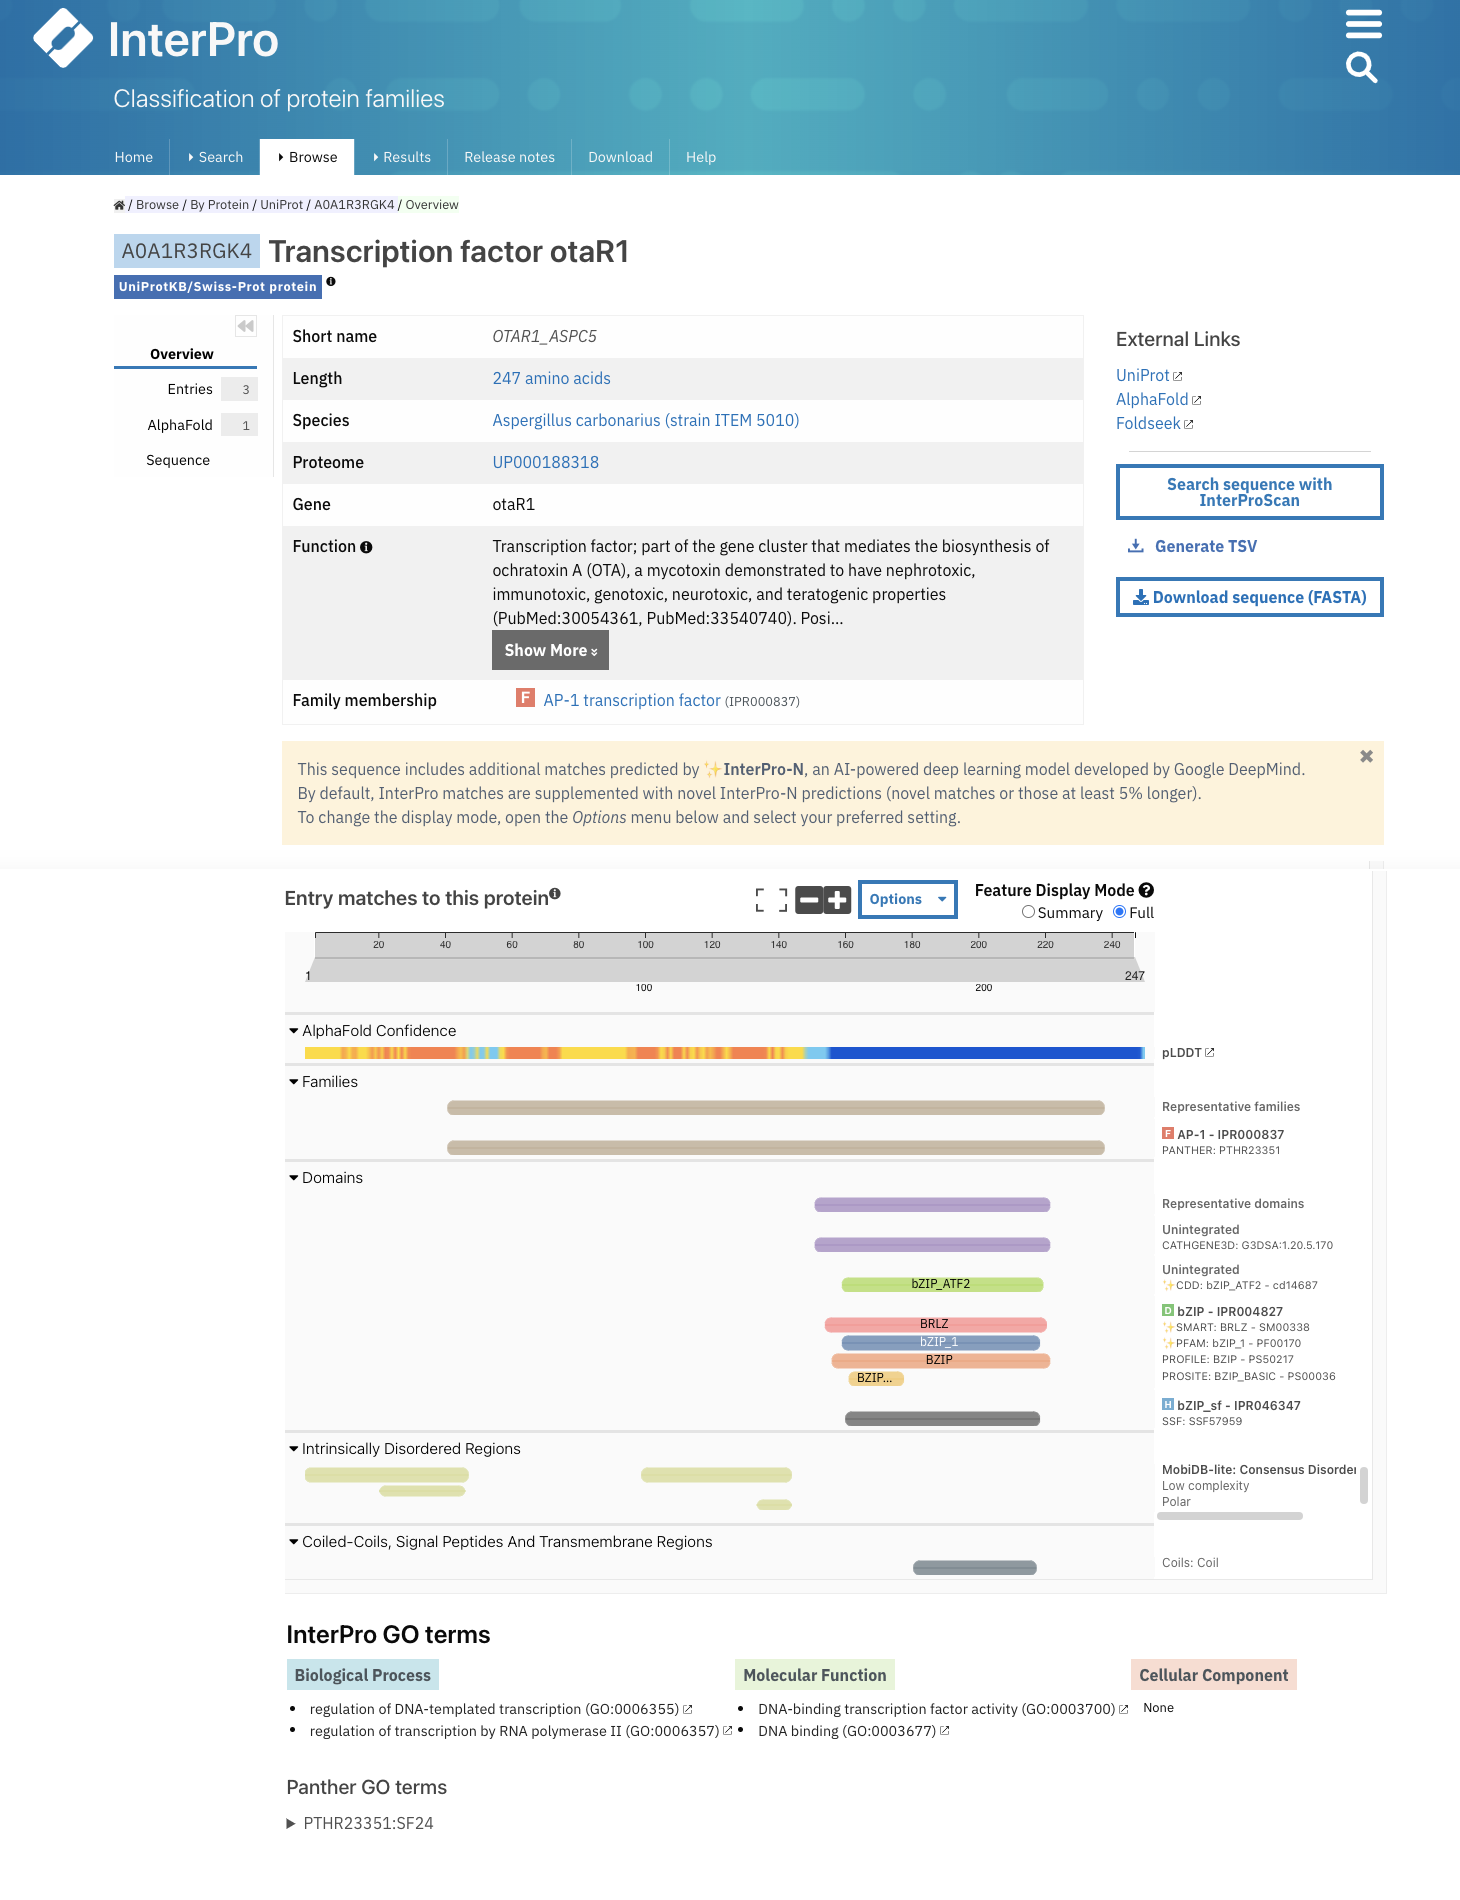
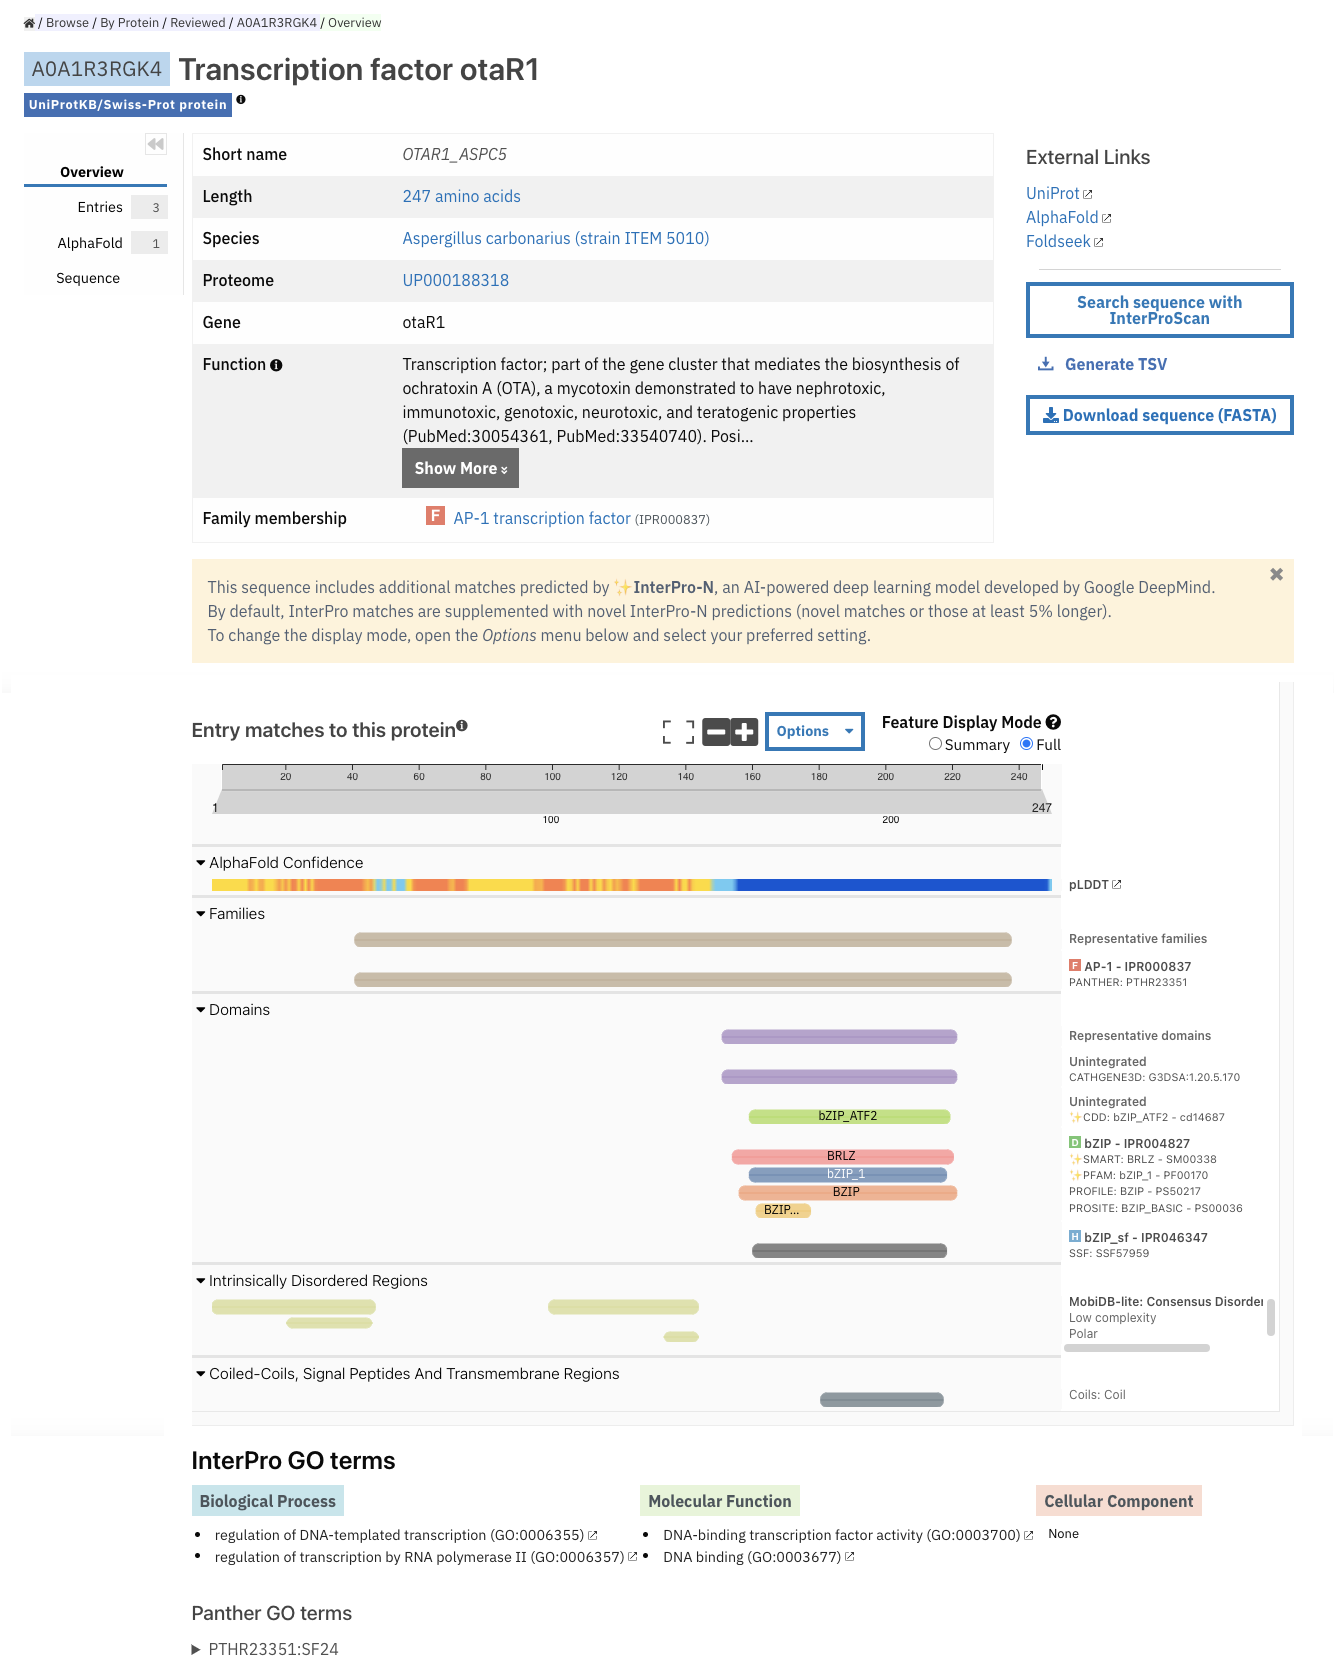
Updates related to the protein viewer and InterPro-N

diff --git a/docs/pfam-faq.rst b/docs/pfam-faq.rst
@@ -58,18 +58,23 @@ What is InterPro-N?
 ===================
 InterPro-N (N for network) provides additional Pfam matches identified by the Google Research team using deep learning approaches. You can read more about 
 it `in this blog post <https://www.ebi.ac.uk/about/news/updates-from-data-resources/interpro-105-0-ai-for-protein-classification//>`_.
-The matches for InterPro-N are identified with a sparkle icon in the protein sequence viewer and can be downloaded from the `InterPro ftp <https://ftp.ebi.ac.uk/pub/databases/interpro/>`_.
+The matches for InterPro-N are identified in the :ref:`protein viewer <protein-viewer>` with a sparkle icon in the protein sequence viewer and 
+can be downloaded from the `InterPro ftp <https://ftp.ebi.ac.uk/pub/databases/interpro/>`_.
 
 .. figure:: images/exampleprotviewer.png
   :alt: Example of InterPro protein page showing the protein viewer 
   :width: 700
   :align: left
 
-  Example of InterPro protein page for the Uniprot accession A0A1R3RGK4_. The :ref:`protein viewer <protein-viewer>` shows the integrated and unintegrated 
-  Pfam entries matching this protein sequence, as well as Pfam InterPro-N matches (the **Display 
-  matches from Stacked** option is selected in the **Options** menu).
-  The colour code of the protein viewer is customised as 
-  **Colour By + Member Database** for all Pfam entries to be highlighted in blue. The **Full** option is selected in **Feature Display Mode**.
+  Example of InterPro protein page for the Uniprot accession A0A1R3RGK4_. By default, the :ref:`protein viewer <protein-viewer>` 
+  shows the integrated and unintegrated Pfam entries matching this protein sequence, as well as additional Pfam InterPro-N matches 
+  (i.e. Pfam matches predicted by InterPro-N that are not included in the 'traditional' Pfam family). These settings can be changed
+  by selecting in **Display matches from** in the **Options** menu the following options: **IntePro**, **InterPro-N** or **Stacked** 
+  (a pop-up explains these options when hovering the mouse over the information icon next to **Display matches from**). In this example,
+  the only Pfam match of the protein is an InterPro-N prediction, highlighted with the sparkle icon. 
+  
+  In addition, the colour code of the protein viewer is customised as **Colour By + Member Database** for all Pfam entries to be 
+  highlighted in blue. The **Full** option is selected in **Feature Display Mode**.
 
 What is the relation between Pfam and InterPro?
 ===============================================

diff --git a/docs/searching-pfam.rst b/docs/searching-pfam.rst
@@ -155,10 +155,11 @@ access the results summarised in a sequence viewer (see the :ref:`sequence viewe
   List of sequences for a search, select one sequence to view the Pfam matches.
 
 .. _protein-viewer:
+
 Interpreting the sequence viewer
 ^^^^^^^^^^^^^^^^^^^^^^^^^^^^^^^^
 
-All Pfam entries are displayed in the sequence viewer. They are grouped by entry types (family, domain, repeat, site). 
+All Pfam entries, integrated or unintegrated into IntePro entries, are displayed in the sequence viewer. They are grouped by entry types (family, domain, repeat, site). 
 The coloured bars indicate the location of entry matches on the protein sequence. 
 The first line of the Domains category contains a summary of the domains found in the protein.
 On the right-hand side, the Pfam accession 
